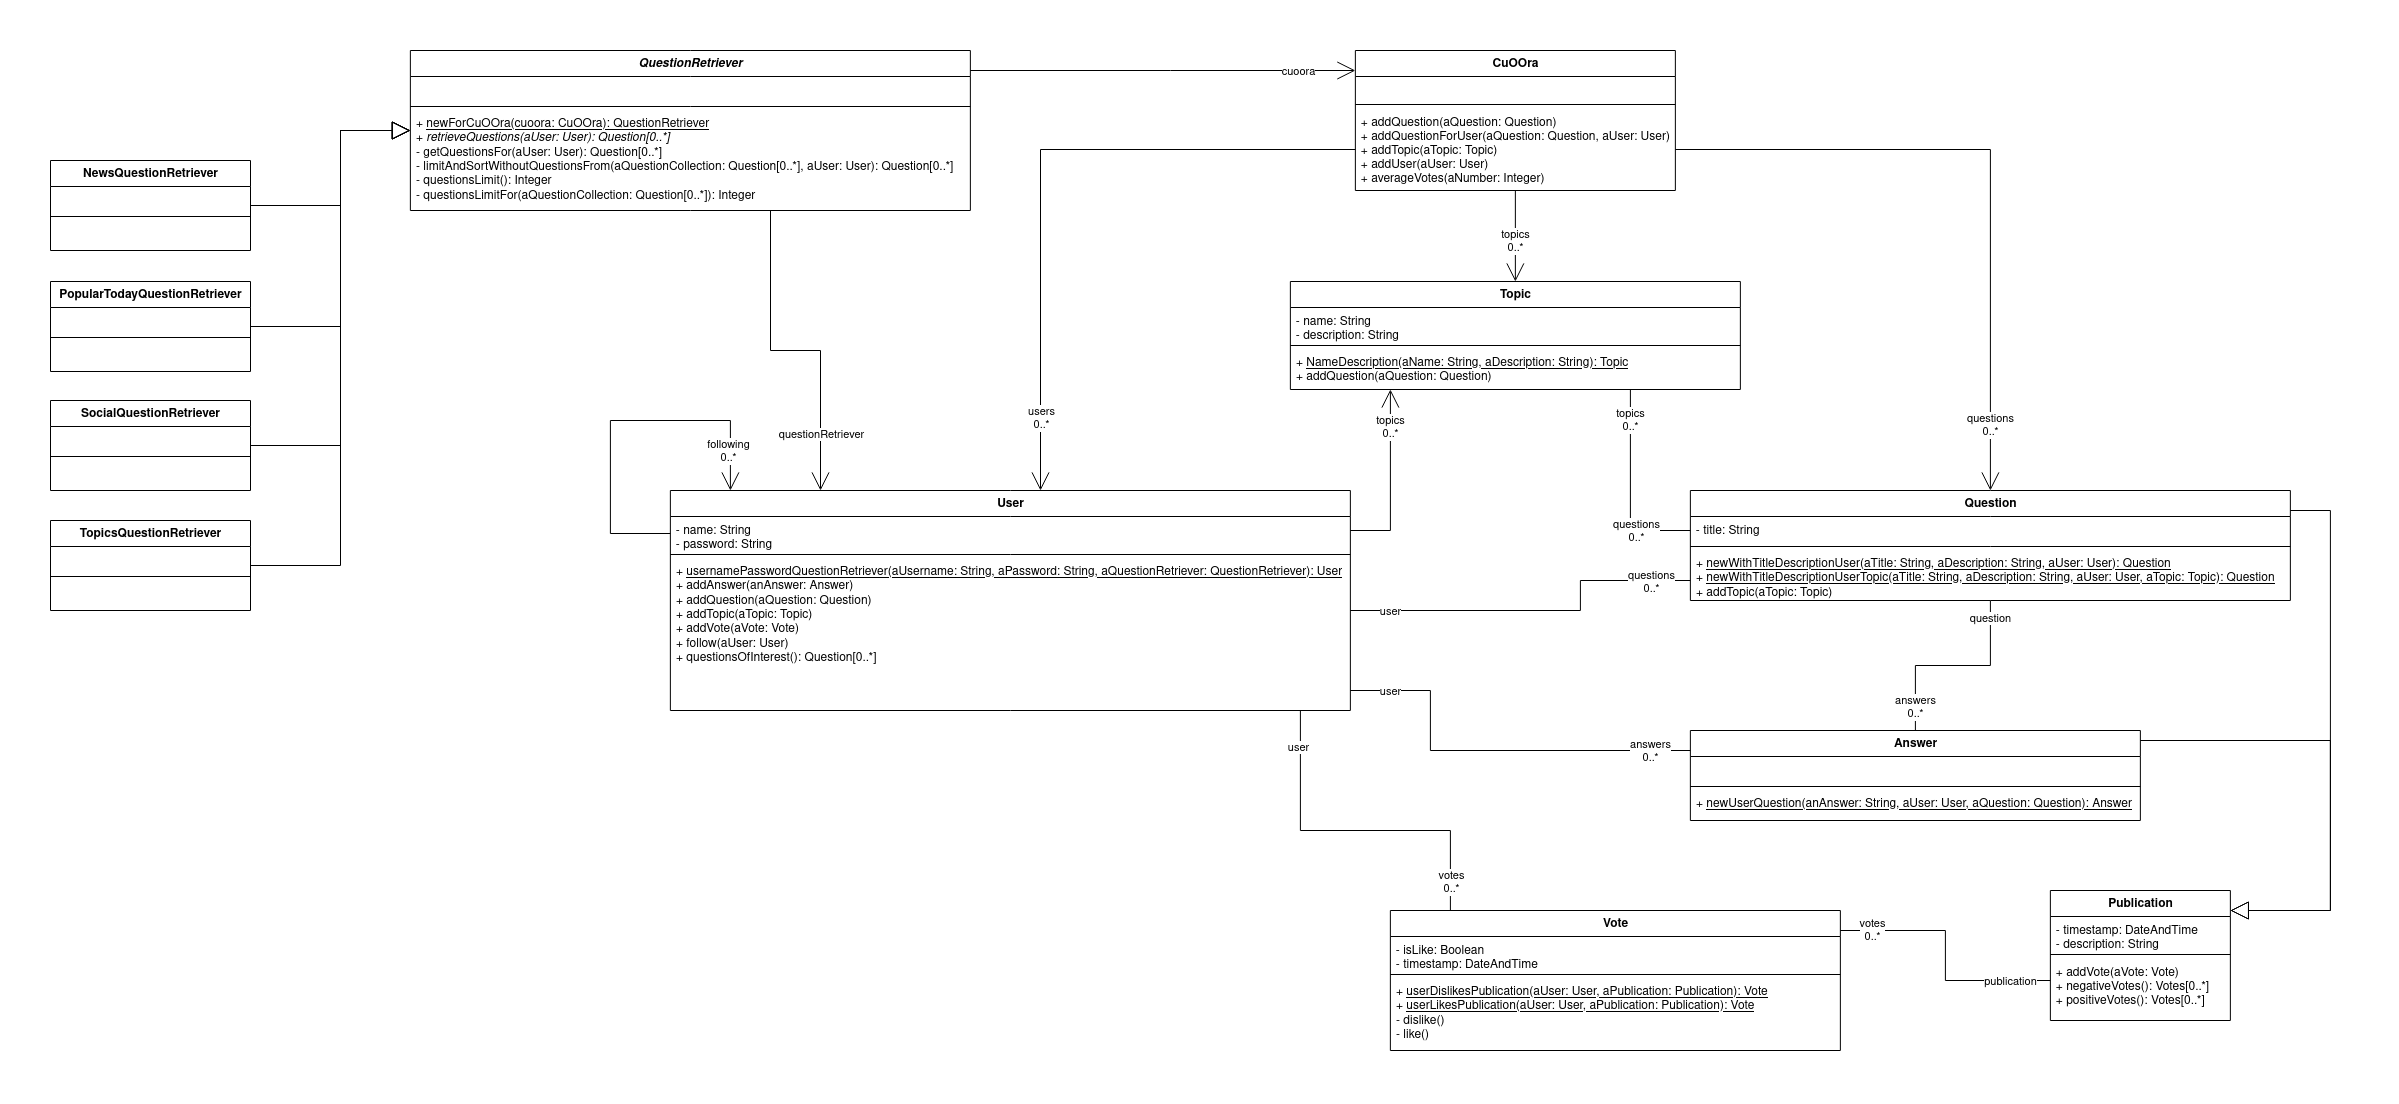
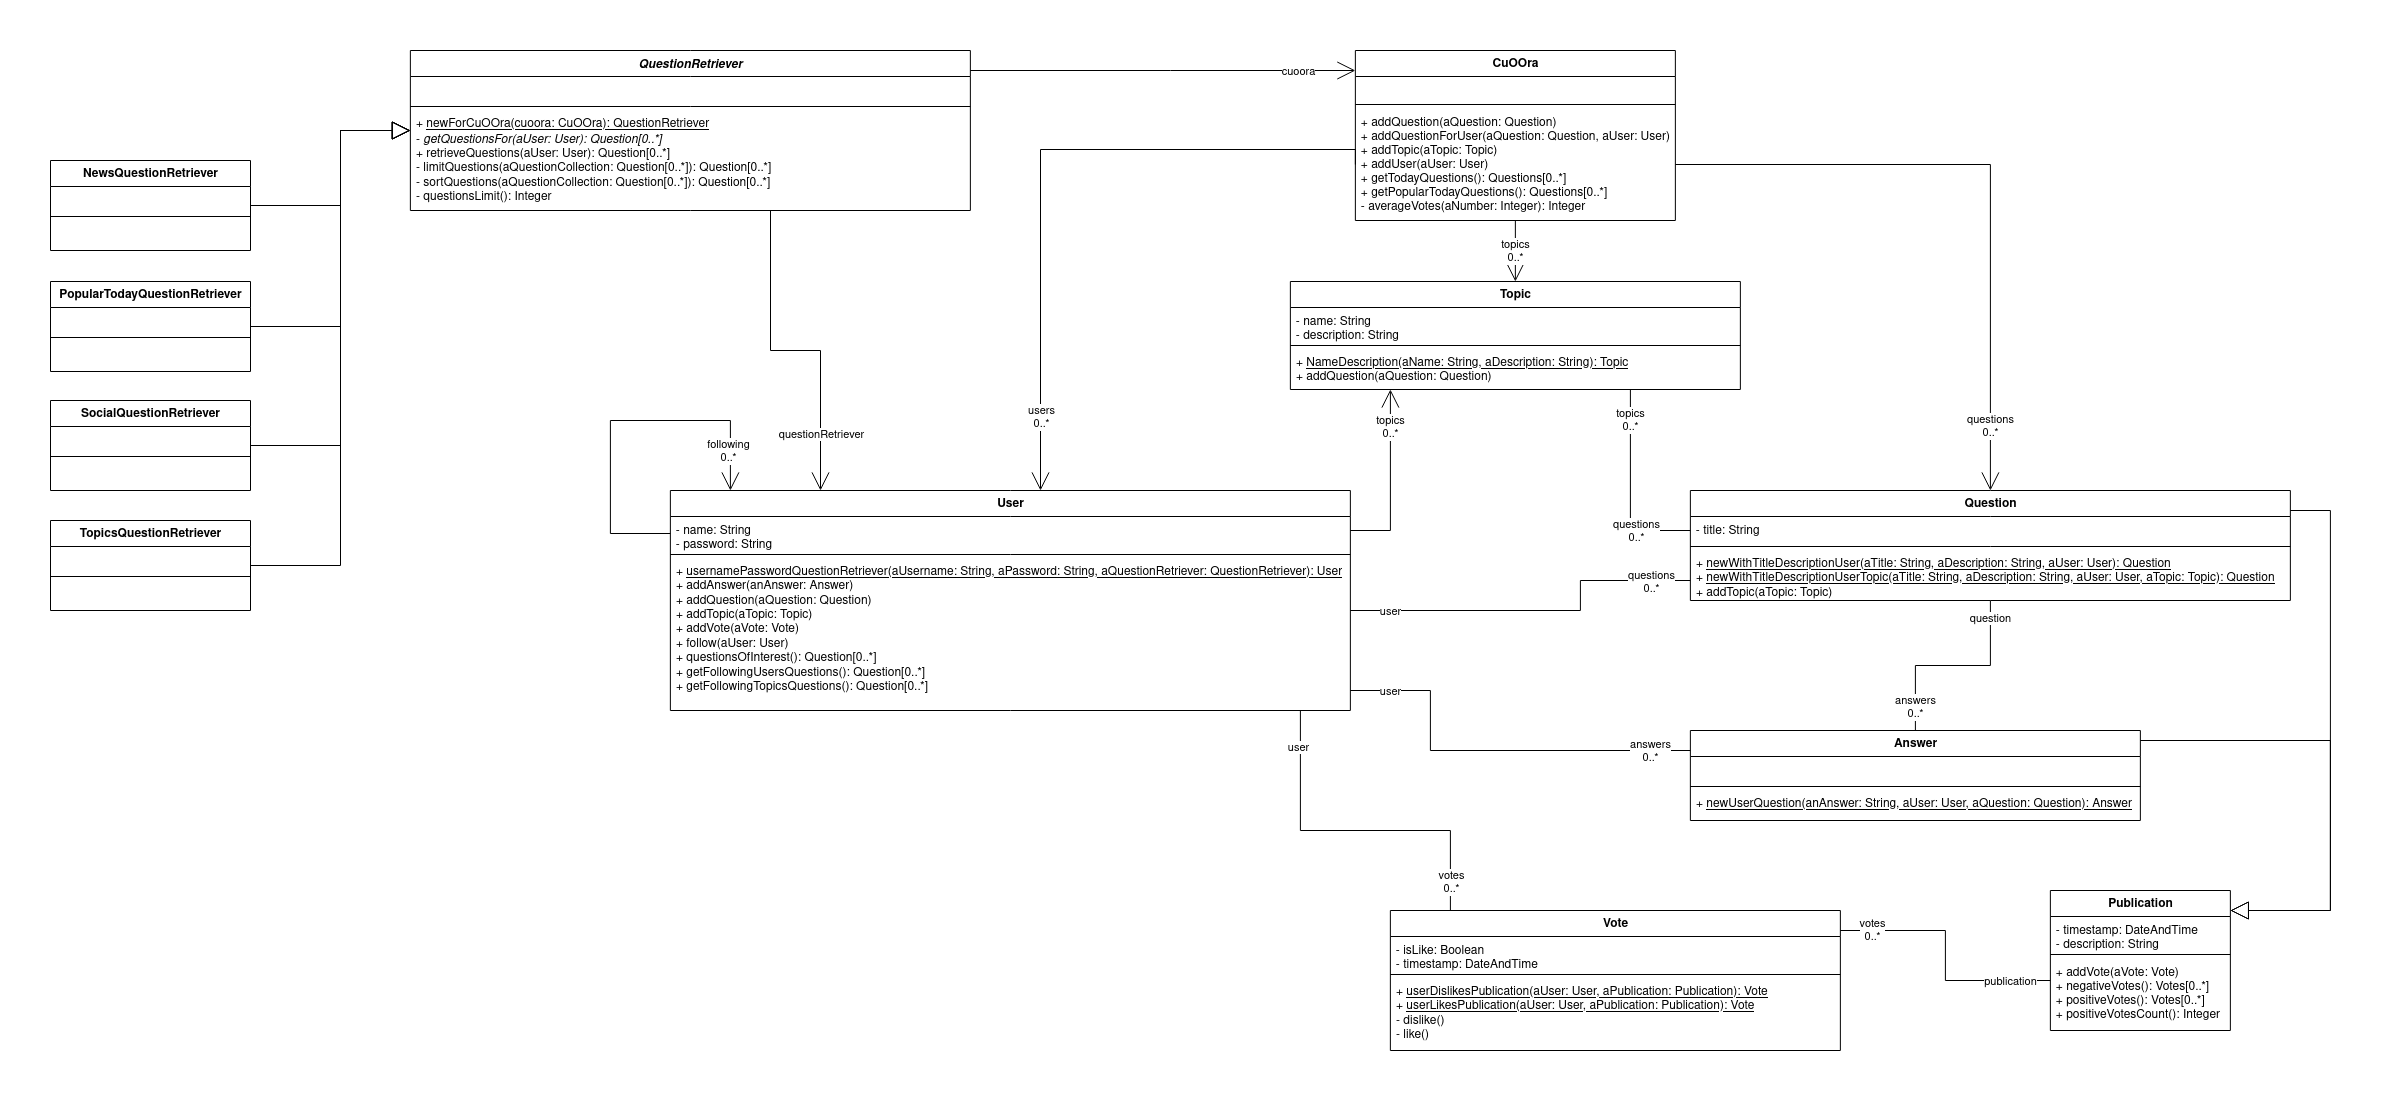
correcciones

diff --git a/pasos-refactor.md b/pasos-refactor.md
@@ -189,6 +189,54 @@ QuestionRetriever>>retrieveQuestions: aUser
 	^ qRet reject: [ :q | q user = aUser ]
 ```
 
+Vemos una `Cadena de Mensajes` y `Codigo Duplicado` al tratar de obtener la cantidad de votos positivos de una publicacion, por lo que aplicamos `Hide Delegate`
+
+```smalltalk
+QuestionRetriever>>retrieveQuestions: aUser
+	| qRet temp followingCol topicsCol newsCol popularTCol averageVotes |
+	qRet := OrderedCollection new.
+	option = #social
+		ifTrue: [ followingCol := OrderedCollection new.
+			aUser following
+				do: [ :follow | followingCol addAll: follow questions ].
+			temp := followingCol
+				asSortedCollection: [ :a :b | a positiveVotesCount > b positiveVotesCount ].
+			qRet := temp last: (100 min: temp size) ].
+	option = #topics
+		ifTrue: [ topicsCol := OrderedCollection new.
+			aUser topics do: [ :topic | topicsCol addAll: topic questions ].
+			temp := topicsCol
+				asSortedCollection: [ :a :b | a positiveVotesCount > b positiveVotesCount ].
+			qRet := temp last: (100 min: temp size) ].
+	option = #news
+		ifTrue: [ newsCol := OrderedCollection new.
+			cuoora questions
+				do: [ :q | 
+					q timestamp asDate = Date today
+						ifTrue: [ newsCol add: q ] ].
+			temp := newsCol
+				asSortedCollection: [ :a :b | a positiveVotesCount > b positiveVotesCount ].
+			qRet := temp last: (100 min: temp size) ].
+	option = #popularToday
+		ifTrue: [ popularTCol := OrderedCollection new.
+			cuoora questions
+				do: [ :q | 
+					q timestamp asDate = Date today
+						ifTrue: [ popularTCol add: q ] ].
+			averageVotes := (cuoora questions
+				sum: [ :q | q positiveVotesCount ]) / popularTCol size.
+			temp := (popularTCol
+				select: [ :q | q positiveVotesCount >= averageVotes ])
+				asSortedCollection: [ :a :b | a positiveVotesCount > b positiveVotesCount ].
+			qRet := temp last: (100 min: temp size) ].
+	^ qRet reject: [ :q | q user = aUser ]
+```
+
+```smalltalk
+Publication>>positiveVotesCount
+	^ self positiveVotes size
+```
+
 Aplicamos `Consolidate Duplicate Conditional Fragments` para remover codigo repetido que se encuentra presente en todos las ramas del condicional.
 
 ```smalltalk
@@ -218,11 +266,11 @@ QuestionRetriever>>retrieveQuestions: aUser
 					q timestamp asDate = Date today
 						ifTrue: [ popularTCol add: q ] ].
 			averageVotes := (cuoora questions
-				sum: [ :q | q positiveVotes size ]) / popularTCol size.
+				sum: [ :q | q positiveVotesCount ]) / popularTCol size.
 			temp := popularTCol
-				select: [ :q | q positiveVotes size >= averageVotes ] ].
+				select: [ :q | q positiveVotesCount >= averageVotes ] ].
 	qRet := (temp
-		asSortedCollection: [ :a :b | a positiveVotes size > b positiveVotes size ])
+		asSortedCollection: [ :a :b | a positiveVotesCount > b positiveVotesCount ])
 		last: (100 min: temp size).
 	^ qRet reject: [ :q | q user = aUser ]
 ```
@@ -234,7 +282,7 @@ QuestionRetriever>>retrieveQuestions: aUser
 	| qRet temp |
 	temp := self getQuestionsFor: aUser.
 	qRet := (temp
-		asSortedCollection: [ :a :b | a positiveVotes size > b positiveVotes size ])
+		asSortedCollection: [ :a :b | a positiveVotesCount > b positiveVotesCount ])
 		last: (100 min: temp size).
 	^ qRet reject: [ :q | q user = aUser ]
 ```
@@ -247,7 +295,7 @@ QuestionRetriever>>retrieveQuestions: aUser
 	| questions |
 	questions := self getQuestionsFor: aUser.
 	^ ((questions
-		asSortedCollection: [ :a :b | a positiveVotes size > b positiveVotes size ])
+		asSortedCollection: [ :a :b | a positiveVotesCount > b positiveVotesCount ])
 		last: (100 min: questions size)) reject: [ :q | q user = aUser ]
 ```
 
@@ -263,24 +311,8 @@ QuestionRetriever>>retrieveQuestions: aUser
 	| questions |
 	questions := self getQuestionsFor: aUser.
 	^ ((questions
-		asSortedCollection: [ :a :b | a positiveVotes size > b positiveVotes size ])
-		last: (self questionsLimit min: questions size)) reject: [ :q | q user = aUser ]
-```
-
-Vemos una `Cadena de Mensajes` al tratar de obtener la cantidad de votos positivos de una publicacion, por lo que aplicamos `Hide Delegate`
-
-```smalltalk
-QuestionRetriever>>retrieveQuestions: aUser
-	| questions |
-	questions := self getQuestionsFor: aUser.
-	^ ((questions
 		asSortedCollection: [ :a :b | a positiveVotesCount > b positiveVotesCount ])
 		last: (self questionsLimit min: questions size)) reject: [ :q | q user = aUser ]
-```
-
-```smalltalk
-Publication>>positiveVotesCount
-	^ self positiveVotes size
 ```
 
 Aplicamos `Extract Method` para extraer la parte del metodo que limita la cantidad de preguntas
@@ -359,9 +391,9 @@ QuestionRetriever>>getQuestionsFor: aUser
 					q timestamp asDate = Date today
 						ifTrue: [ popularTCol add: q ] ].
 			averageVotes := (cuoora questions
-				sum: [ :q | q positiveVotes size ]) / popularTCol size.
+				sum: [ :q | q positiveVotesCount ]) / popularTCol size.
 			temp := popularTCol
-				select: [ :q | q positiveVotes size >= averageVotes ] ].
+				select: [ :q | q positiveVotesCount >= averageVotes ] ].
 	^ temp
 ```
 
@@ -401,10 +433,10 @@ PopularTodayQuestionRetriever>>getQuestionsFor: aUser
 		do: [ :q | 
 			q timestamp asDate = Date today
 				ifTrue: [ popularTCol add: q ] ].
-	averageVotes := (cuoora questions sum: [ :q | q positiveVotes size ])
+	averageVotes := (cuoora questions sum: [ :q | q positiveVotesCount ])
 		/ popularTCol size.
 	temp := popularTCol
-		select: [ :q | q positiveVotes size >= averageVotes ].
+		select: [ :q | q positiveVotesCount >= averageVotes ].
 	^ temp
 ```
 
@@ -451,7 +483,7 @@ Object subclass: #QuestionRetriever
 
 ## new:
 
-Vemos que esta clase reimplementa de forma erronea el metodo `new:`
+Vemos que esta clase reimplementa de forma erronea el metodo `#new:`
 
 ```smalltalk
 QuestionRetriever>>new: cuoora
@@ -526,10 +558,10 @@ PopularTodayQuestionRetriever>>getQuestionsFor: aUser
 		do: [ :q | 
 			q timestamp asDate = Date today
 				ifTrue: [ popularTCol add: q ] ].
-	averageVotes := (cuoora questions sum: [ :q | q positiveVotes size ])
+	averageVotes := (cuoora questions sum: [ :q | q positiveVotesCount ])
 		/ popularTCol size.
 	temp := popularTCol
-		select: [ :q | q positiveVotes size >= averageVotes ].
+		select: [ :q | q positiveVotesCount >= averageVotes ].
 	^ temp
 ```
 
@@ -545,16 +577,16 @@ PopularTodayQuestionRetriever>>getQuestionsFor: aUser
 				ifTrue: [ popularTCol add: q ] ].
 	averageVotes := self averageVotes: popularTCol size.
 	temp := popularTCol
-		select: [ :q | q positiveVotes size >= averageVotes ].
+		select: [ :q | q positiveVotesCount >= averageVotes ].
 	^ temp
 ```
 
 ```smalltalk
 PopularTodayQuestionRetriever>>averageVotes: aNumber
-	^ (cuoora questions sum: [ :q | q positiveVotes size ]) / aNumber
+	^ (cuoora questions sum: [ :q | q positiveVotesCount ]) / aNumber
 ```
 
-Podemos ver que el metodo `averageVotes:` de `PopularTodayQuestionRetriever` `Envidia  Atributos` de `cuoora`, por lo tanto aplicamos `Move Method` y lo movemos hacia la clase `CuOOra`
+Podemos ver que el metodo `PopularTodayQuestionRetriever>>#averageVotes:` `Envidia  Atributos` de `cuoora`, por lo tanto aplicamos `Move Method` y lo movemos hacia la clase `CuOOra`
 
 ```smalltalk
 PopularTodayQuestionRetriever>>getQuestionsFor: aUser
@@ -566,13 +598,13 @@ PopularTodayQuestionRetriever>>getQuestionsFor: aUser
 				ifTrue: [ popularTCol add: q ] ].
 	averageVotes := cuoora averageVotes: popularTCol size.
 	temp := popularTCol
-		select: [ :q | q positiveVotes size >= averageVotes ].
+		select: [ :q | q positiveVotesCount >= averageVotes ].
 	^ temp
 ```
 
 ```smalltalk
 CuOOra>>averageVotes: aNumber
-	^ (questions sum: [ :q | q positiveVotes size ]) / aNumber
+	^ (questions sum: [ :q | q positiveVotesCount ]) / aNumber
 ```
 
 Continuamos aplicando `Replace Temp With Query`
@@ -587,7 +619,7 @@ PopularTodayQuestionRetriever>>getQuestionsFor: aUser
 				ifTrue: [ popularTCol add: q ] ].
 	temp := popularTCol
 		select:
-			[ :q | q positiveVotes size >= (cuoora averageVotes: popularTCol size) ].
+			[ :q | q positiveVotesCount >= (cuoora averageVotes: popularTCol size) ].
 	^ temp
 ```
 
@@ -599,21 +631,10 @@ PopularTodayQuestionRetriever>>getQuestionsFor: aUser
 	popularTCol := cuoora questions
 		select: [ :q | q timestamp asDate = Date today ].
 	^ popularTCol
-		select: [ :q | q positiveVotes size >= (cuoora averageVotes: popularTCol size) ]
-```
-
-Aplicamos `Hide Delegate` para eliminar la `Cadena de Mensajes` al obtener la cantidad de votos positivos de una publicacion
-
-```smalltalk
-PopularTodayQuestionRetriever>>getQuestionsFor: aUser
-	| popularTCol |
-	popularTCol := cuoora questions
-		select: [ :q | q timestamp asDate = Date today ].
-	^ popularTCol
 		select: [ :q | q positiveVotesCount >= (cuoora averageVotes: popularTCol size) ]
 ```
 
-Tambien se observa `codigo duplicado` y una variable temporal innecesaria `popularTCol` al obtener las preguntas del dia, por lo tanto aplicamos `Replace Tempo With Query` 
+Se observa `codigo duplicado` y una variable temporal innecesaria `popularTCol` al obtener las preguntas del dia, por lo tanto aplicamos `Replace Tempo With Query` 
 
 ```smalltalk
 PopularTodayQuestionRetriever>>getQuestionsFor: aUser
